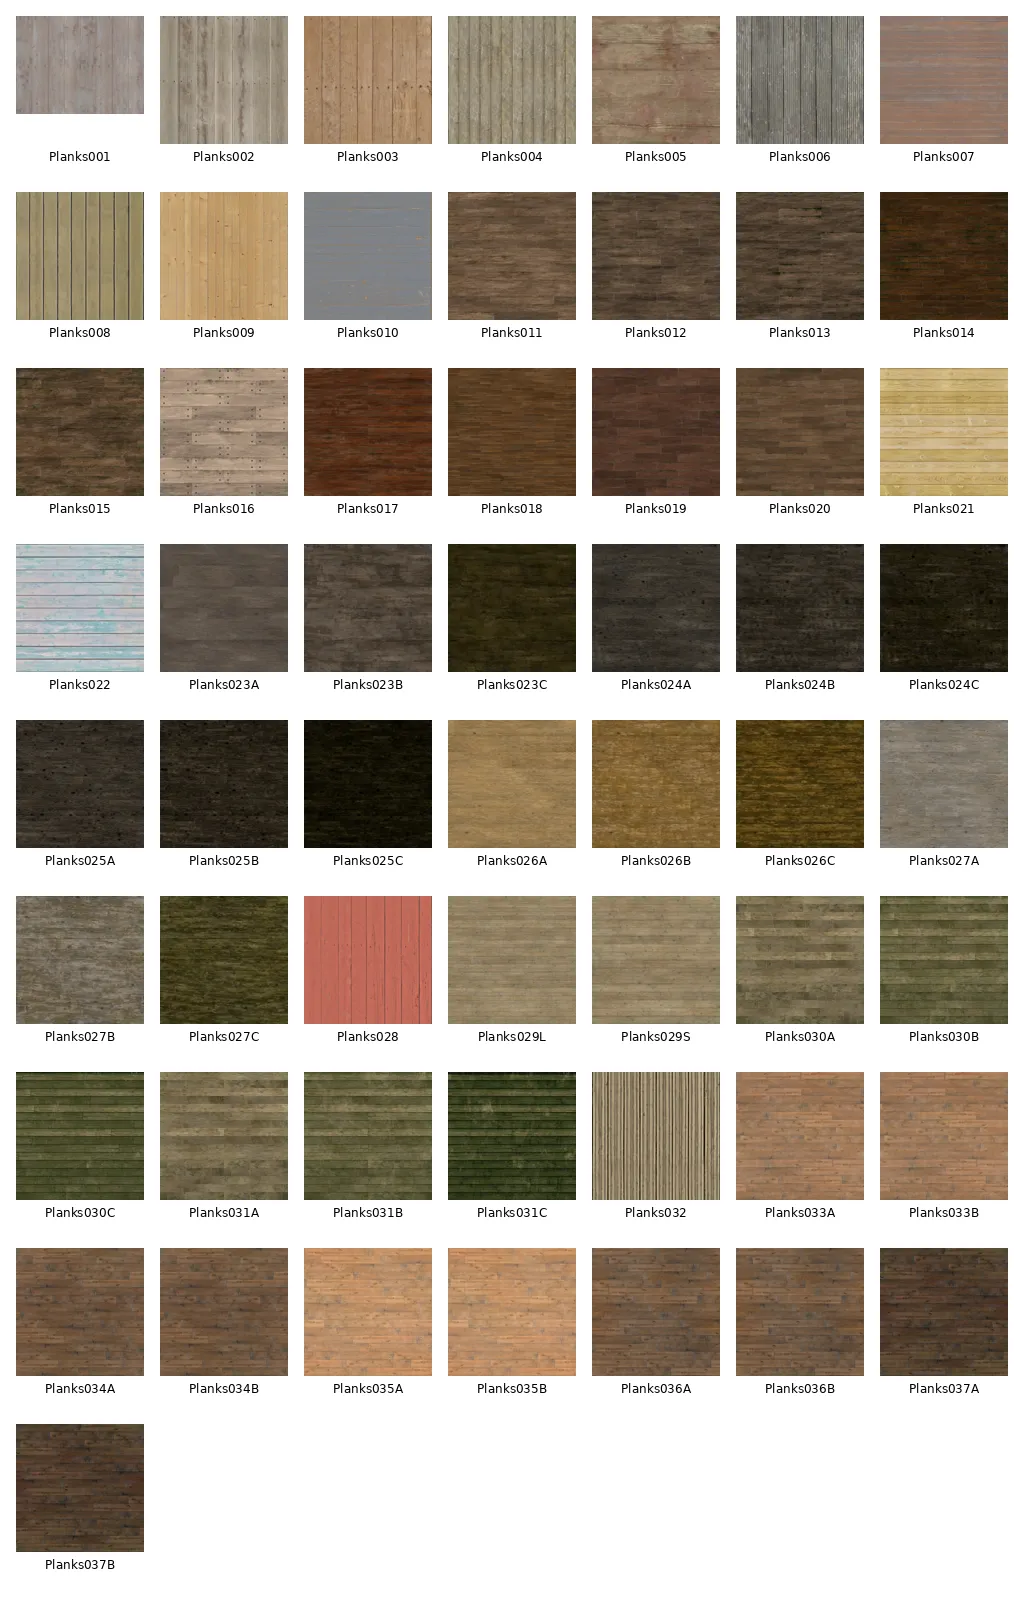
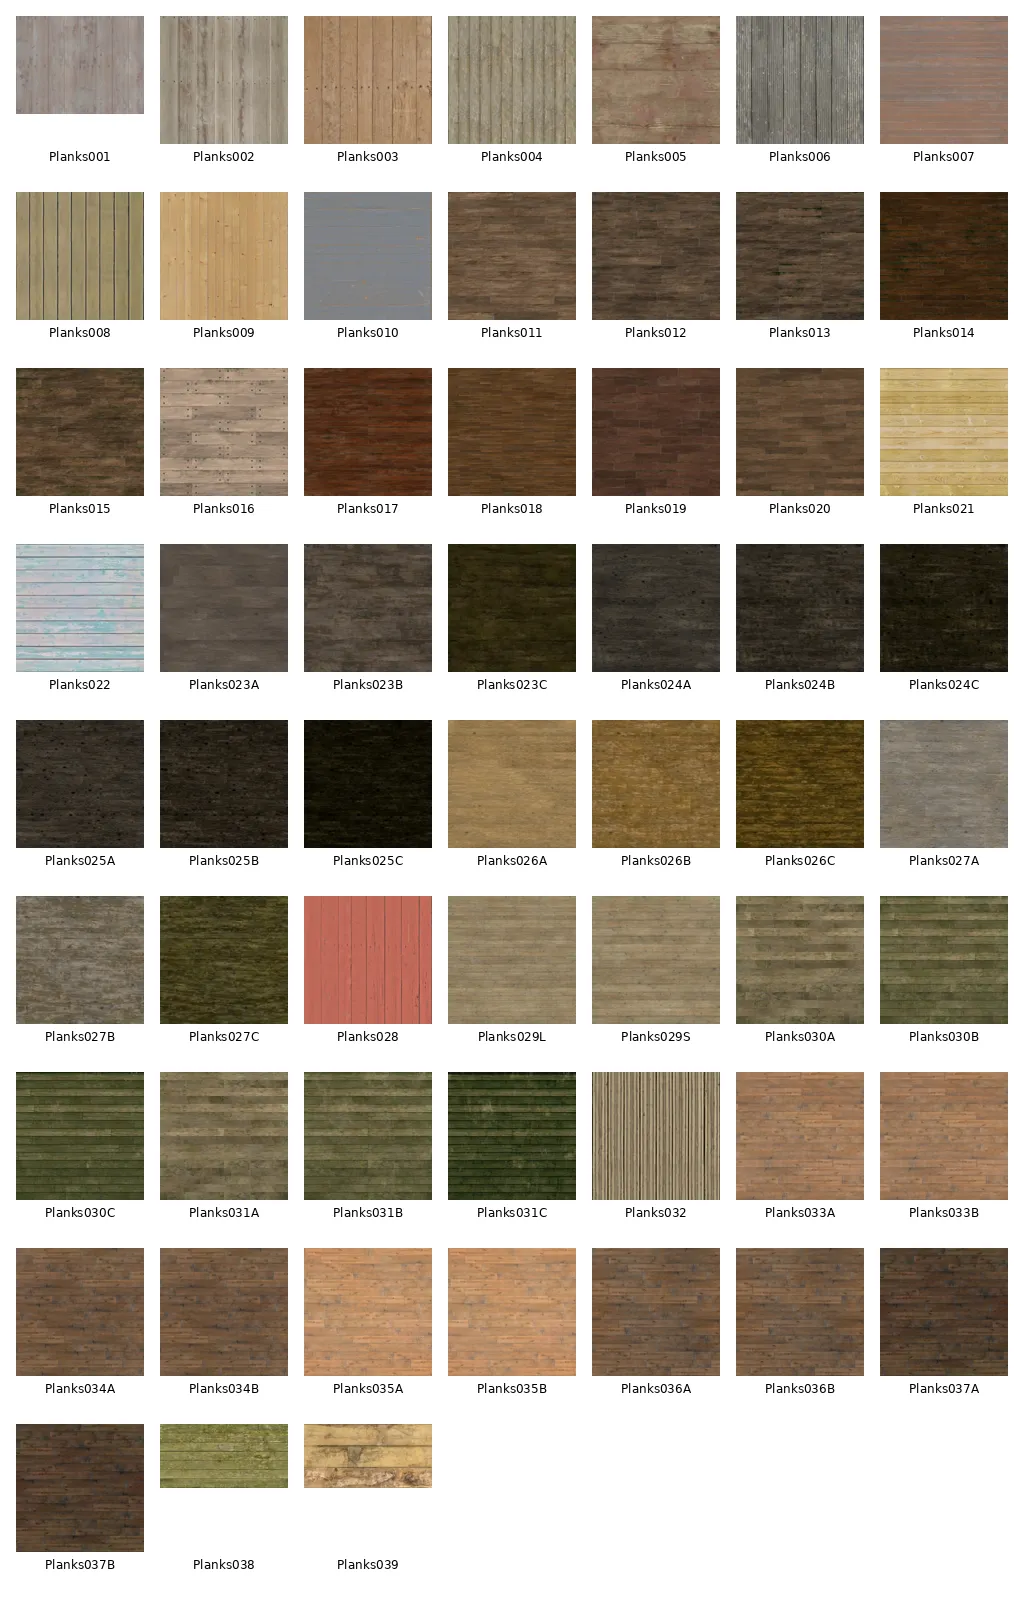
version: v2023.11.23

Changed region(s): [[0.1562, 0.8663, 0.4375, 0.9282]]

diff --git a/README.md b/README.md
@@ -5,19 +5,19 @@ The texture are resized to 3 sizes, so you can choose quality.
 
 3 qualities available: 256, 512 and 1024 pixels width.
 
-Current version: 2023.09.20<br>
-Total textures: 1290
+Current version: 2023.11.23<br>
+Total textures: 1316
 
 ## Install
 
 Just download the .sh3t file you want and use the texture library import feature from Sweethome3D from "Furniture" menu.
 
 
-* [ambientcg_1024.sh3t](https://fenouil-drive.mycozy.cloud/public?sharecode=QyiDq6EIACQi) - 192.5 MB
+* [ambientcg_1024.sh3t](https://fenouil-drive.mycozy.cloud/public?sharecode=QyiDq6EIACQi) - 196.7 MB
 
-* [ambientcg_512.sh3t](https://fenouil-drive.mycozy.cloud/public?sharecode=u2Ps0zAB8cij) - 50.0 MB
+* [ambientcg_512.sh3t](https://fenouil-drive.mycozy.cloud/public?sharecode=u2Ps0zAB8cij) - 51.0 MB
 
-* [ambientcg_256.sh3t](https://fenouil-drive.mycozy.cloud/public?sharecode=3gsbVKG3PFBM) - 13.3 MB
+* [ambientcg_256.sh3t](https://fenouil-drive.mycozy.cloud/public?sharecode=3gsbVKG3PFBM) - 13.5 MB
 
 
 ## Missing dimensions
@@ -56,225 +56,240 @@ The current code and content follow the same licence.
 
 ### Asphalt
 <picture>
-  <img alt="Preview of Asphalt" src="https://raw.githubusercontent.com/fabien-michel/sweethome3d-textures-ambientcg/v2023.09.20/previews/Asphalt.webp">
+  <img alt="Preview of Asphalt" src="https://raw.githubusercontent.com/fabien-michel/sweethome3d-textures-ambientcg/v2023.11.23/previews/Asphalt.webp">
 </picture>
 
 ### Bamboo
 <picture>
-  <img alt="Preview of Bamboo" src="https://raw.githubusercontent.com/fabien-michel/sweethome3d-textures-ambientcg/v2023.09.20/previews/Bamboo.webp">
+  <img alt="Preview of Bamboo" src="https://raw.githubusercontent.com/fabien-michel/sweethome3d-textures-ambientcg/v2023.11.23/previews/Bamboo.webp">
 </picture>
 
 ### Bark
 <picture>
-  <img alt="Preview of Bark" src="https://raw.githubusercontent.com/fabien-michel/sweethome3d-textures-ambientcg/v2023.09.20/previews/Bark.webp">
+  <img alt="Preview of Bark" src="https://raw.githubusercontent.com/fabien-michel/sweethome3d-textures-ambientcg/v2023.11.23/previews/Bark.webp">
 </picture>
 
 ### Bricks
 <picture>
-  <img alt="Preview of Bricks" src="https://raw.githubusercontent.com/fabien-michel/sweethome3d-textures-ambientcg/v2023.09.20/previews/Bricks.webp">
+  <img alt="Preview of Bricks" src="https://raw.githubusercontent.com/fabien-michel/sweethome3d-textures-ambientcg/v2023.11.23/previews/Bricks.webp">
 </picture>
 
 ### Cardboard
 <picture>
-  <img alt="Preview of Cardboard" src="https://raw.githubusercontent.com/fabien-michel/sweethome3d-textures-ambientcg/v2023.09.20/previews/Cardboard.webp">
+  <img alt="Preview of Cardboard" src="https://raw.githubusercontent.com/fabien-michel/sweethome3d-textures-ambientcg/v2023.11.23/previews/Cardboard.webp">
 </picture>
 
 ### Carpet
 <picture>
-  <img alt="Preview of Carpet" src="https://raw.githubusercontent.com/fabien-michel/sweethome3d-textures-ambientcg/v2023.09.20/previews/Carpet.webp">
+  <img alt="Preview of Carpet" src="https://raw.githubusercontent.com/fabien-michel/sweethome3d-textures-ambientcg/v2023.11.23/previews/Carpet.webp">
 </picture>
 
 ### Chainmail
 <picture>
-  <img alt="Preview of Chainmail" src="https://raw.githubusercontent.com/fabien-michel/sweethome3d-textures-ambientcg/v2023.09.20/previews/Chainmail.webp">
+  <img alt="Preview of Chainmail" src="https://raw.githubusercontent.com/fabien-michel/sweethome3d-textures-ambientcg/v2023.11.23/previews/Chainmail.webp">
 </picture>
 
 ### Chipboard
 <picture>
-  <img alt="Preview of Chipboard" src="https://raw.githubusercontent.com/fabien-michel/sweethome3d-textures-ambientcg/v2023.09.20/previews/Chipboard.webp">
+  <img alt="Preview of Chipboard" src="https://raw.githubusercontent.com/fabien-michel/sweethome3d-textures-ambientcg/v2023.11.23/previews/Chipboard.webp">
 </picture>
 
 ### Clay
 <picture>
-  <img alt="Preview of Clay" src="https://raw.githubusercontent.com/fabien-michel/sweethome3d-textures-ambientcg/v2023.09.20/previews/Clay.webp">
+  <img alt="Preview of Clay" src="https://raw.githubusercontent.com/fabien-michel/sweethome3d-textures-ambientcg/v2023.11.23/previews/Clay.webp">
 </picture>
 
 ### Concrete
 <picture>
-  <img alt="Preview of Concrete" src="https://raw.githubusercontent.com/fabien-michel/sweethome3d-textures-ambientcg/v2023.09.20/previews/Concrete.webp">
+  <img alt="Preview of Concrete" src="https://raw.githubusercontent.com/fabien-michel/sweethome3d-textures-ambientcg/v2023.11.23/previews/Concrete.webp">
 </picture>
 
 ### Cork
 <picture>
-  <img alt="Preview of Cork" src="https://raw.githubusercontent.com/fabien-michel/sweethome3d-textures-ambientcg/v2023.09.20/previews/Cork.webp">
+  <img alt="Preview of Cork" src="https://raw.githubusercontent.com/fabien-michel/sweethome3d-textures-ambientcg/v2023.11.23/previews/Cork.webp">
 </picture>
 
 ### CorrugatedSteel
 <picture>
-  <img alt="Preview of CorrugatedSteel" src="https://raw.githubusercontent.com/fabien-michel/sweethome3d-textures-ambientcg/v2023.09.20/previews/CorrugatedSteel.webp">
+  <img alt="Preview of CorrugatedSteel" src="https://raw.githubusercontent.com/fabien-michel/sweethome3d-textures-ambientcg/v2023.11.23/previews/CorrugatedSteel.webp">
 </picture>
 
 ### DiamondPlate
 <picture>
-  <img alt="Preview of DiamondPlate" src="https://raw.githubusercontent.com/fabien-michel/sweethome3d-textures-ambientcg/v2023.09.20/previews/DiamondPlate.webp">
+  <img alt="Preview of DiamondPlate" src="https://raw.githubusercontent.com/fabien-michel/sweethome3d-textures-ambientcg/v2023.11.23/previews/DiamondPlate.webp">
 </picture>
 
 ### Fabric
 <picture>
-  <img alt="Preview of Fabric" src="https://raw.githubusercontent.com/fabien-michel/sweethome3d-textures-ambientcg/v2023.09.20/previews/Fabric.webp">
+  <img alt="Preview of Fabric" src="https://raw.githubusercontent.com/fabien-michel/sweethome3d-textures-ambientcg/v2023.11.23/previews/Fabric.webp">
+</picture>
+
+### Foil
+<picture>
+  <img alt="Preview of Foil" src="https://raw.githubusercontent.com/fabien-michel/sweethome3d-textures-ambientcg/v2023.11.23/previews/Foil.webp">
 </picture>
 
 ### GlazedTerracotta
 <picture>
-  <img alt="Preview of GlazedTerracotta" src="https://raw.githubusercontent.com/fabien-michel/sweethome3d-textures-ambientcg/v2023.09.20/previews/GlazedTerracotta.webp">
+  <img alt="Preview of GlazedTerracotta" src="https://raw.githubusercontent.com/fabien-michel/sweethome3d-textures-ambientcg/v2023.11.23/previews/GlazedTerracotta.webp">
 </picture>
 
 ### Granite
 <picture>
-  <img alt="Preview of Granite" src="https://raw.githubusercontent.com/fabien-michel/sweethome3d-textures-ambientcg/v2023.09.20/previews/Granite.webp">
+  <img alt="Preview of Granite" src="https://raw.githubusercontent.com/fabien-michel/sweethome3d-textures-ambientcg/v2023.11.23/previews/Granite.webp">
 </picture>
 
 ### Grass
 <picture>
-  <img alt="Preview of Grass" src="https://raw.githubusercontent.com/fabien-michel/sweethome3d-textures-ambientcg/v2023.09.20/previews/Grass.webp">
+  <img alt="Preview of Grass" src="https://raw.githubusercontent.com/fabien-michel/sweethome3d-textures-ambientcg/v2023.11.23/previews/Grass.webp">
 </picture>
 
 ### Gravel
 <picture>
-  <img alt="Preview of Gravel" src="https://raw.githubusercontent.com/fabien-michel/sweethome3d-textures-ambientcg/v2023.09.20/previews/Gravel.webp">
+  <img alt="Preview of Gravel" src="https://raw.githubusercontent.com/fabien-michel/sweethome3d-textures-ambientcg/v2023.11.23/previews/Gravel.webp">
 </picture>
 
 ### Ground
 <picture>
-  <img alt="Preview of Ground" src="https://raw.githubusercontent.com/fabien-michel/sweethome3d-textures-ambientcg/v2023.09.20/previews/Ground.webp">
+  <img alt="Preview of Ground" src="https://raw.githubusercontent.com/fabien-michel/sweethome3d-textures-ambientcg/v2023.11.23/previews/Ground.webp">
+</picture>
+
+### Logs
+<picture>
+  <img alt="Preview of Logs" src="https://raw.githubusercontent.com/fabien-michel/sweethome3d-textures-ambientcg/v2023.11.23/previews/Logs.webp">
 </picture>
 
 ### Marble
 <picture>
-  <img alt="Preview of Marble" src="https://raw.githubusercontent.com/fabien-michel/sweethome3d-textures-ambientcg/v2023.09.20/previews/Marble.webp">
+  <img alt="Preview of Marble" src="https://raw.githubusercontent.com/fabien-michel/sweethome3d-textures-ambientcg/v2023.11.23/previews/Marble.webp">
 </picture>
 
 ### Metal
 <picture>
-  <img alt="Preview of Metal" src="https://raw.githubusercontent.com/fabien-michel/sweethome3d-textures-ambientcg/v2023.09.20/previews/Metal.webp">
+  <img alt="Preview of Metal" src="https://raw.githubusercontent.com/fabien-michel/sweethome3d-textures-ambientcg/v2023.11.23/previews/Metal.webp">
 </picture>
 
 ### Moss
 <picture>
-  <img alt="Preview of Moss" src="https://raw.githubusercontent.com/fabien-michel/sweethome3d-textures-ambientcg/v2023.09.20/previews/Moss.webp">
+  <img alt="Preview of Moss" src="https://raw.githubusercontent.com/fabien-michel/sweethome3d-textures-ambientcg/v2023.11.23/previews/Moss.webp">
 </picture>
 
 ### OfficeCeiling
 <picture>
-  <img alt="Preview of OfficeCeiling" src="https://raw.githubusercontent.com/fabien-michel/sweethome3d-textures-ambientcg/v2023.09.20/previews/OfficeCeiling.webp">
+  <img alt="Preview of OfficeCeiling" src="https://raw.githubusercontent.com/fabien-michel/sweethome3d-textures-ambientcg/v2023.11.23/previews/OfficeCeiling.webp">
 </picture>
 
 ### Paint
 <picture>
-  <img alt="Preview of Paint" src="https://raw.githubusercontent.com/fabien-michel/sweethome3d-textures-ambientcg/v2023.09.20/previews/Paint.webp">
+  <img alt="Preview of Paint" src="https://raw.githubusercontent.com/fabien-michel/sweethome3d-textures-ambientcg/v2023.11.23/previews/Paint.webp">
 </picture>
 
 ### Paper
 <picture>
-  <img alt="Preview of Paper" src="https://raw.githubusercontent.com/fabien-michel/sweethome3d-textures-ambientcg/v2023.09.20/previews/Paper.webp">
+  <img alt="Preview of Paper" src="https://raw.githubusercontent.com/fabien-michel/sweethome3d-textures-ambientcg/v2023.11.23/previews/Paper.webp">
 </picture>
 
 ### PavingStones
 <picture>
-  <img alt="Preview of PavingStones" src="https://raw.githubusercontent.com/fabien-michel/sweethome3d-textures-ambientcg/v2023.09.20/previews/PavingStones.webp">
+  <img alt="Preview of PavingStones" src="https://raw.githubusercontent.com/fabien-michel/sweethome3d-textures-ambientcg/v2023.11.23/previews/PavingStones.webp">
 </picture>
 
 ### Planks
 <picture>
-  <img alt="Preview of Planks" src="https://raw.githubusercontent.com/fabien-michel/sweethome3d-textures-ambientcg/v2023.09.20/previews/Planks.webp">
+  <img alt="Preview of Planks" src="https://raw.githubusercontent.com/fabien-michel/sweethome3d-textures-ambientcg/v2023.11.23/previews/Planks.webp">
 </picture>
 
 ### Plaster
 <picture>
-  <img alt="Preview of Plaster" src="https://raw.githubusercontent.com/fabien-michel/sweethome3d-textures-ambientcg/v2023.09.20/previews/Plaster.webp">
+  <img alt="Preview of Plaster" src="https://raw.githubusercontent.com/fabien-michel/sweethome3d-textures-ambientcg/v2023.11.23/previews/Plaster.webp">
 </picture>
 
 ### Plastic
 <picture>
-  <img alt="Preview of Plastic" src="https://raw.githubusercontent.com/fabien-michel/sweethome3d-textures-ambientcg/v2023.09.20/previews/Plastic.webp">
+  <img alt="Preview of Plastic" src="https://raw.githubusercontent.com/fabien-michel/sweethome3d-textures-ambientcg/v2023.11.23/previews/Plastic.webp">
 </picture>
 
 ### Porcelain
 <picture>
-  <img alt="Preview of Porcelain" src="https://raw.githubusercontent.com/fabien-michel/sweethome3d-textures-ambientcg/v2023.09.20/previews/Porcelain.webp">
+  <img alt="Preview of Porcelain" src="https://raw.githubusercontent.com/fabien-michel/sweethome3d-textures-ambientcg/v2023.11.23/previews/Porcelain.webp">
 </picture>
 
 ### Road
 <picture>
-  <img alt="Preview of Road" src="https://raw.githubusercontent.com/fabien-michel/sweethome3d-textures-ambientcg/v2023.09.20/previews/Road.webp">
+  <img alt="Preview of Road" src="https://raw.githubusercontent.com/fabien-michel/sweethome3d-textures-ambientcg/v2023.11.23/previews/Road.webp">
 </picture>
 
 ### Rock
 <picture>
-  <img alt="Preview of Rock" src="https://raw.githubusercontent.com/fabien-michel/sweethome3d-textures-ambientcg/v2023.09.20/previews/Rock.webp">
+  <img alt="Preview of Rock" src="https://raw.githubusercontent.com/fabien-michel/sweethome3d-textures-ambientcg/v2023.11.23/previews/Rock.webp">
 </picture>
 
 ### Rocks
 <picture>
-  <img alt="Preview of Rocks" src="https://raw.githubusercontent.com/fabien-michel/sweethome3d-textures-ambientcg/v2023.09.20/previews/Rocks.webp">
+  <img alt="Preview of Rocks" src="https://raw.githubusercontent.com/fabien-michel/sweethome3d-textures-ambientcg/v2023.11.23/previews/Rocks.webp">
 </picture>
 
 ### RoofingTiles
 <picture>
-  <img alt="Preview of RoofingTiles" src="https://raw.githubusercontent.com/fabien-michel/sweethome3d-textures-ambientcg/v2023.09.20/previews/RoofingTiles.webp">
+  <img alt="Preview of RoofingTiles" src="https://raw.githubusercontent.com/fabien-michel/sweethome3d-textures-ambientcg/v2023.11.23/previews/RoofingTiles.webp">
 </picture>
 
 ### Rust
 <picture>
-  <img alt="Preview of Rust" src="https://raw.githubusercontent.com/fabien-michel/sweethome3d-textures-ambientcg/v2023.09.20/previews/Rust.webp">
+  <img alt="Preview of Rust" src="https://raw.githubusercontent.com/fabien-michel/sweethome3d-textures-ambientcg/v2023.11.23/previews/Rust.webp">
 </picture>
 
 ### Snow
 <picture>
-  <img alt="Preview of Snow" src="https://raw.githubusercontent.com/fabien-michel/sweethome3d-textures-ambientcg/v2023.09.20/previews/Snow.webp">
+  <img alt="Preview of Snow" src="https://raw.githubusercontent.com/fabien-michel/sweethome3d-textures-ambientcg/v2023.11.23/previews/Snow.webp">
 </picture>
 
 ### SolarPanel
 <picture>
-  <img alt="Preview of SolarPanel" src="https://raw.githubusercontent.com/fabien-michel/sweethome3d-textures-ambientcg/v2023.09.20/previews/SolarPanel.webp">
+  <img alt="Preview of SolarPanel" src="https://raw.githubusercontent.com/fabien-michel/sweethome3d-textures-ambientcg/v2023.11.23/previews/SolarPanel.webp">
+</picture>
+
+### Tatami
+<picture>
+  <img alt="Preview of Tatami" src="https://raw.githubusercontent.com/fabien-michel/sweethome3d-textures-ambientcg/v2023.11.23/previews/Tatami.webp">
 </picture>
 
 ### Terrazzo
 <picture>
-  <img alt="Preview of Terrazzo" src="https://raw.githubusercontent.com/fabien-michel/sweethome3d-textures-ambientcg/v2023.09.20/previews/Terrazzo.webp">
+  <img alt="Preview of Terrazzo" src="https://raw.githubusercontent.com/fabien-michel/sweethome3d-textures-ambientcg/v2023.11.23/previews/Terrazzo.webp">
 </picture>
 
 ### ThatchedRoof
 <picture>
-  <img alt="Preview of ThatchedRoof" src="https://raw.githubusercontent.com/fabien-michel/sweethome3d-textures-ambientcg/v2023.09.20/previews/ThatchedRoof.webp">
+  <img alt="Preview of ThatchedRoof" src="https://raw.githubusercontent.com/fabien-michel/sweethome3d-textures-ambientcg/v2023.11.23/previews/ThatchedRoof.webp">
 </picture>
 
 ### Tiles
 <picture>
-  <img alt="Preview of Tiles" src="https://raw.githubusercontent.com/fabien-michel/sweethome3d-textures-ambientcg/v2023.09.20/previews/Tiles.webp">
+  <img alt="Preview of Tiles" src="https://raw.githubusercontent.com/fabien-michel/sweethome3d-textures-ambientcg/v2023.11.23/previews/Tiles.webp">
 </picture>
 
 ### Wallpaper
 <picture>
-  <img alt="Preview of Wallpaper" src="https://raw.githubusercontent.com/fabien-michel/sweethome3d-textures-ambientcg/v2023.09.20/previews/Wallpaper.webp">
+  <img alt="Preview of Wallpaper" src="https://raw.githubusercontent.com/fabien-michel/sweethome3d-textures-ambientcg/v2023.11.23/previews/Wallpaper.webp">
 </picture>
 
 ### Wood
 <picture>
-  <img alt="Preview of Wood" src="https://raw.githubusercontent.com/fabien-michel/sweethome3d-textures-ambientcg/v2023.09.20/previews/Wood.webp">
+  <img alt="Preview of Wood" src="https://raw.githubusercontent.com/fabien-michel/sweethome3d-textures-ambientcg/v2023.11.23/previews/Wood.webp">
 </picture>
 
 ### WoodChips
 <picture>
-  <img alt="Preview of WoodChips" src="https://raw.githubusercontent.com/fabien-michel/sweethome3d-textures-ambientcg/v2023.09.20/previews/WoodChips.webp">
+  <img alt="Preview of WoodChips" src="https://raw.githubusercontent.com/fabien-michel/sweethome3d-textures-ambientcg/v2023.11.23/previews/WoodChips.webp">
 </picture>
 
 ### WoodFloor
 <picture>
-  <img alt="Preview of WoodFloor" src="https://raw.githubusercontent.com/fabien-michel/sweethome3d-textures-ambientcg/v2023.09.20/previews/WoodFloor.webp">
+  <img alt="Preview of WoodFloor" src="https://raw.githubusercontent.com/fabien-michel/sweethome3d-textures-ambientcg/v2023.11.23/previews/WoodFloor.webp">
 </picture>
 
 ### WoodSiding
 <picture>
-  <img alt="Preview of WoodSiding" src="https://raw.githubusercontent.com/fabien-michel/sweethome3d-textures-ambientcg/v2023.09.20/previews/WoodSiding.webp">
+  <img alt="Preview of WoodSiding" src="https://raw.githubusercontent.com/fabien-michel/sweethome3d-textures-ambientcg/v2023.11.23/previews/WoodSiding.webp">
 </picture>
